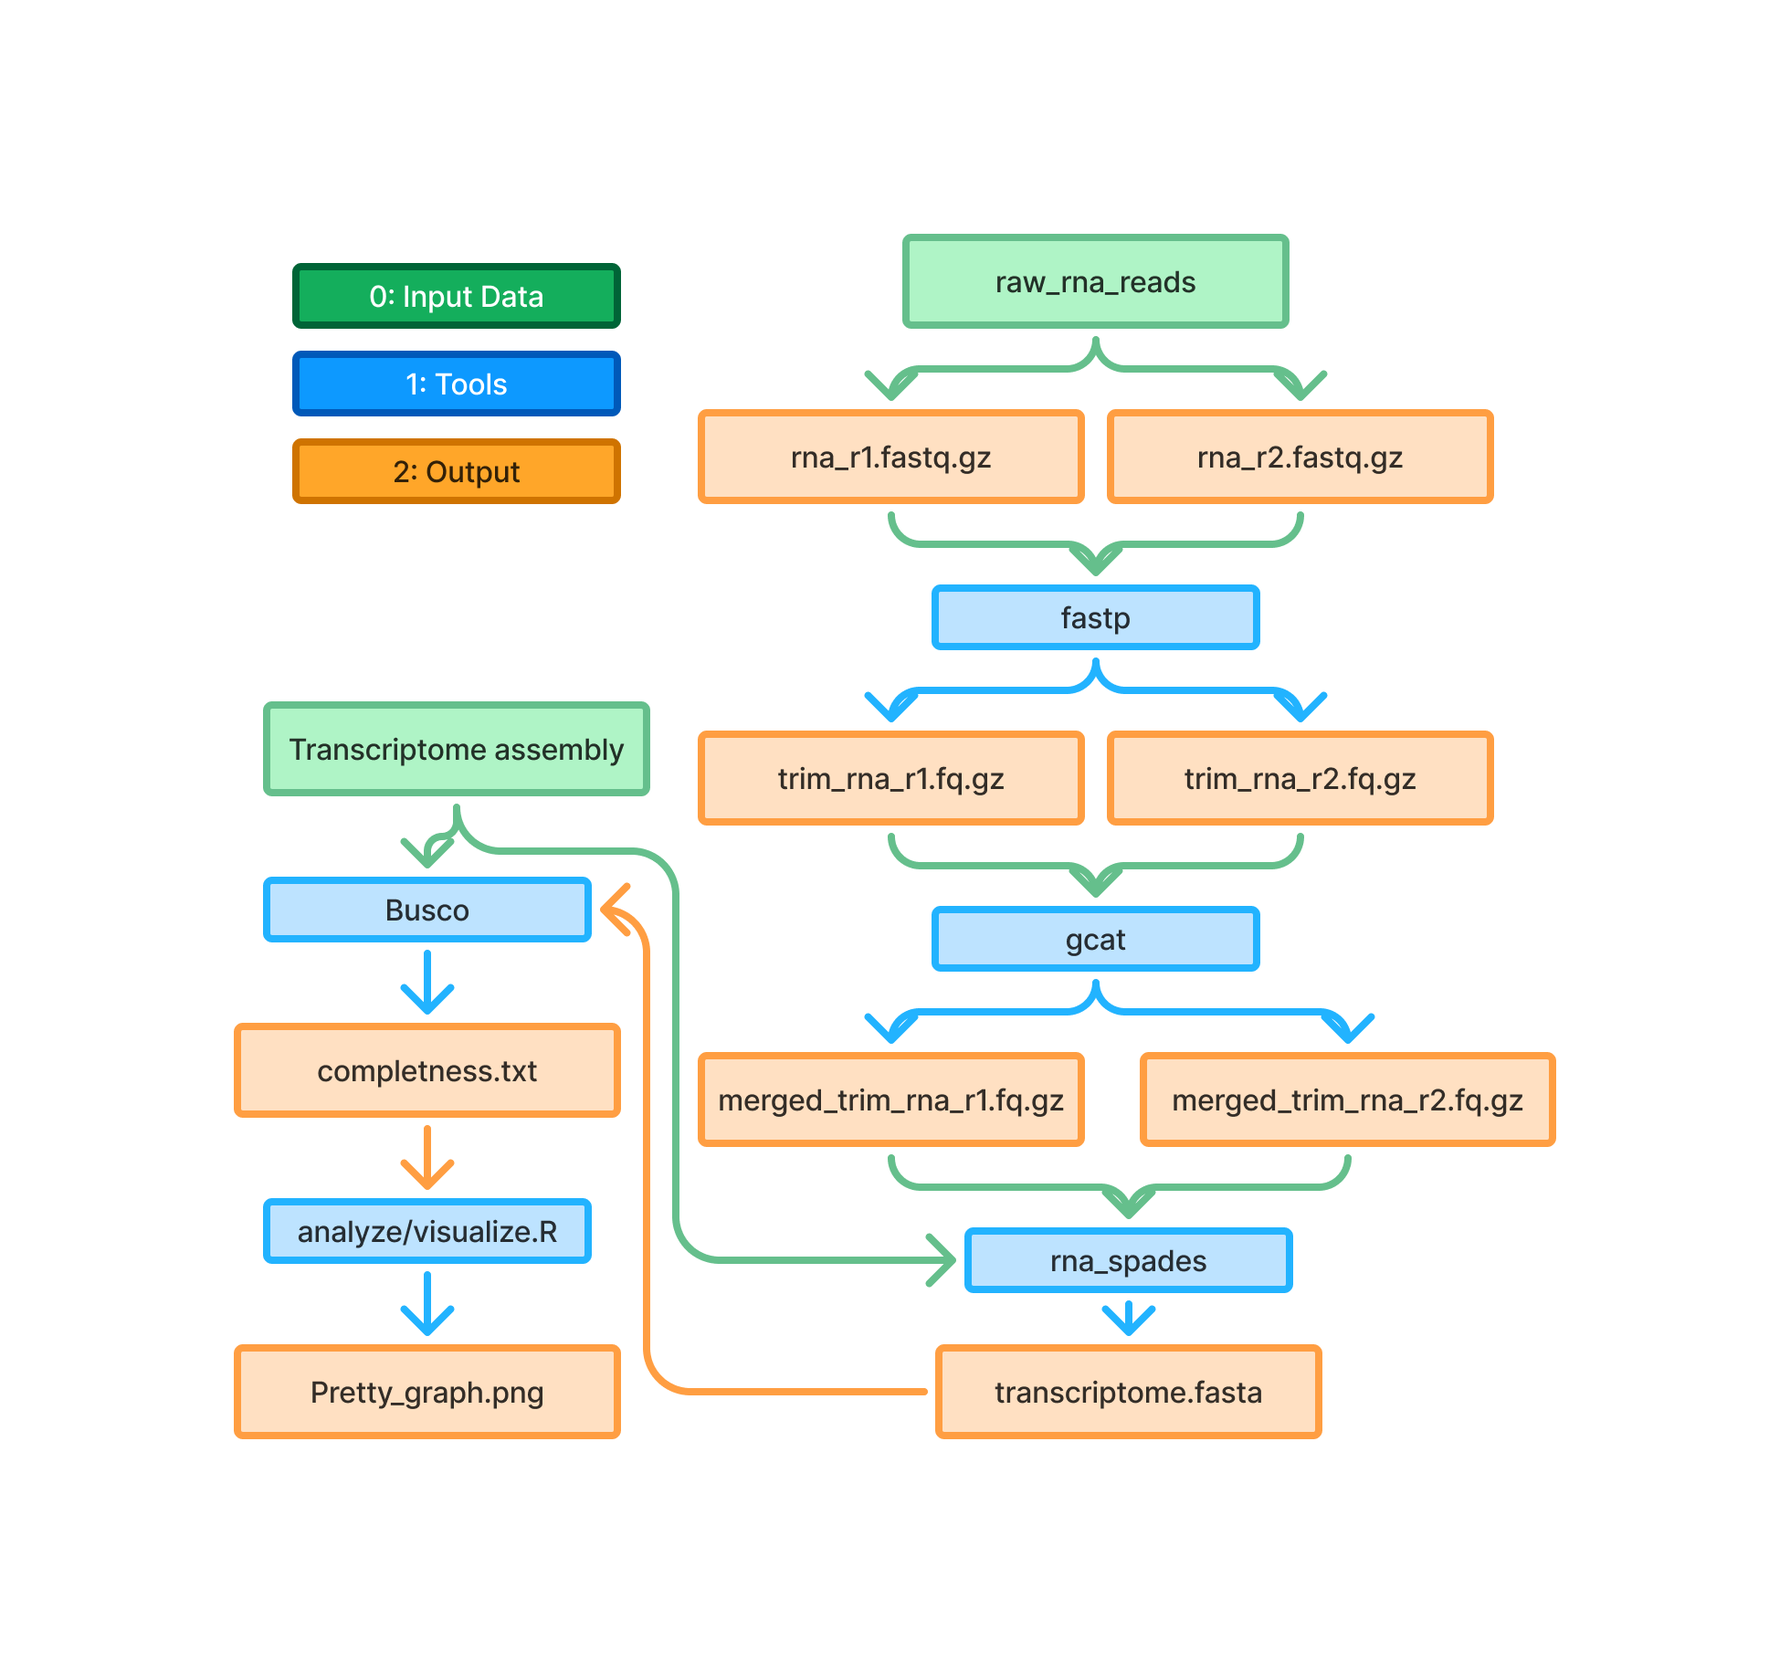
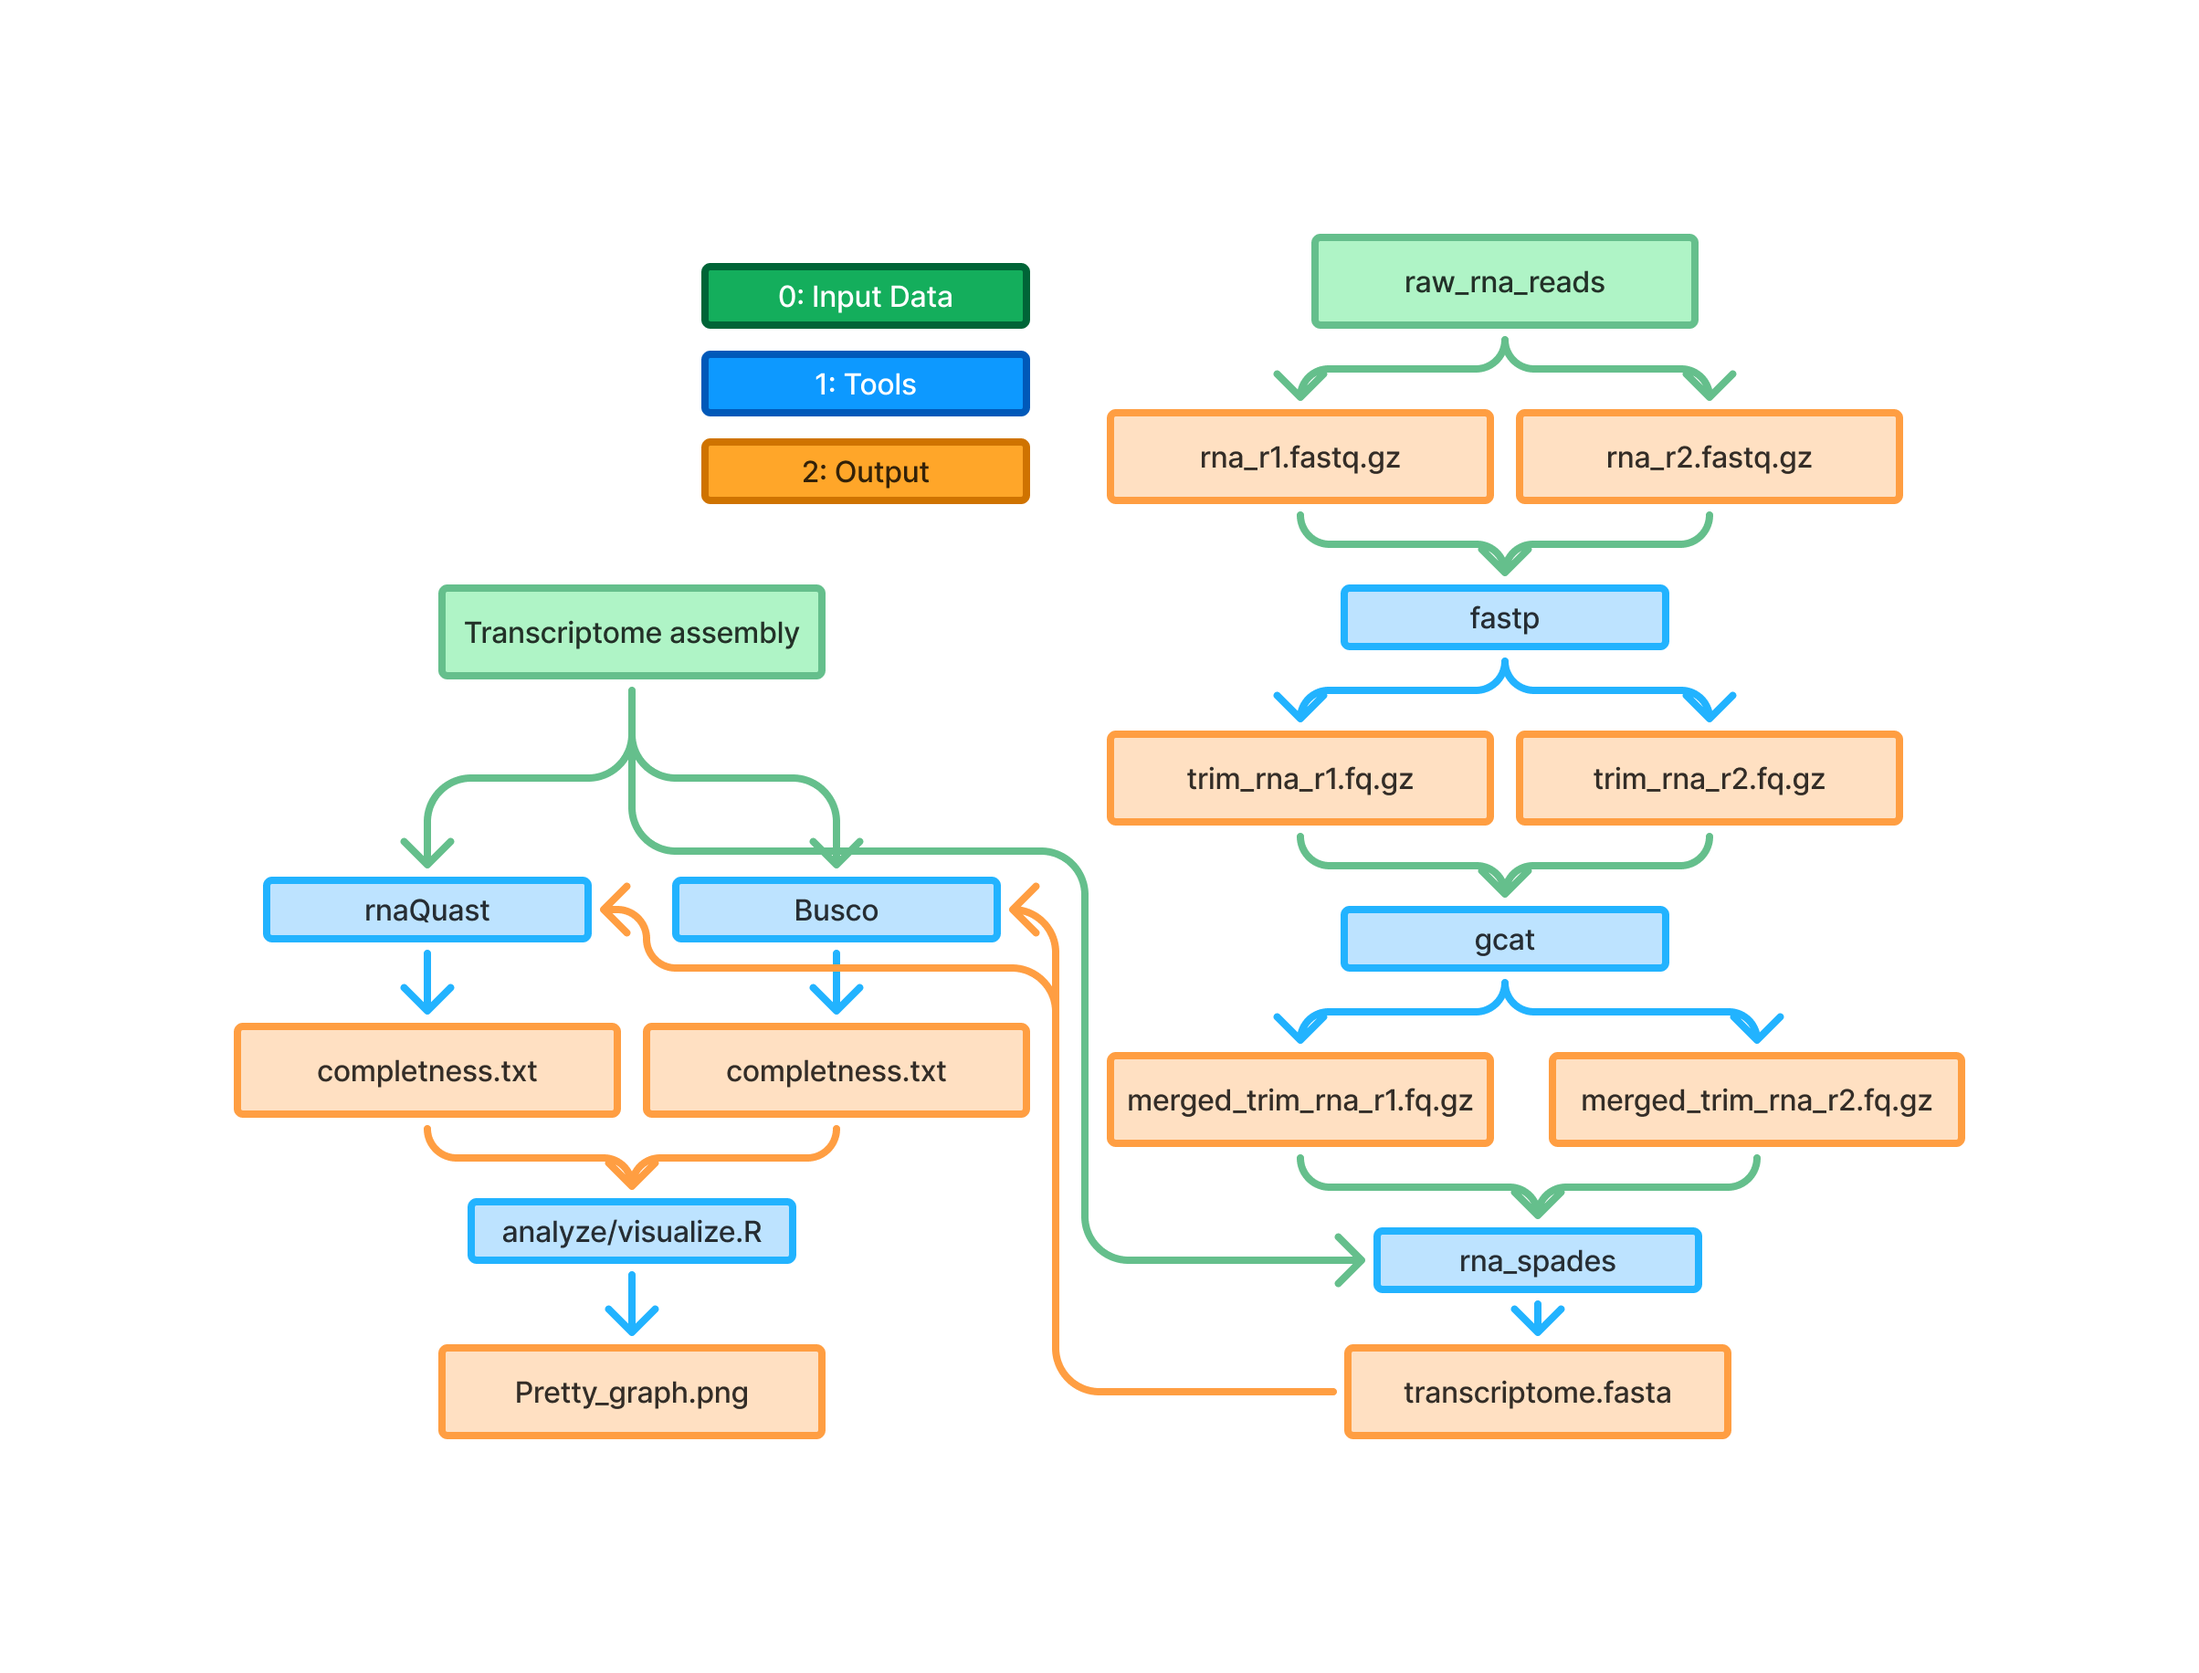
simplified figure

Changed region(s): [[0.0934, 0.1245, 0.9026, 0.8712], [0.7781, 0.4356, 0.8714, 0.4978]]

diff --git a/README.md b/README.md
@@ -4,7 +4,7 @@
 
 
 ### Pipeline Visualization
-   ![Pipeline visualization](mosquito_denovo_pipeline.png)
+   ![Pipeline visualization](simple_mosquito_denovo_pipeline.png)
 
 
 ### Project Structure:
@@ -17,14 +17,14 @@ mosquito_denovo/
 ├── results/                         # Output files from each step of the pipeline
 │   ├── 01_merge_trim/               # Results from merging and trimming steps
 │   ├── 02_assembly/                 # De novo assembly results
-│   ├── 03_busco/                    # BUSCO analysis outputs
+│   ├── 03_busco_rnaQuast/           # Completness analysis outputs
 │   └── 04_visualize/                # Visualization outputs and comparison graphs
 │
 ├── scripts/
 │   ├── mosquito_denovo.sh           # Main script that handles job submissions
 │   ├── 01_merge_trim.sh             # Trim each read file and merge outputs
 │   ├── 02_assembly.sh               # Assemble merged and trimmed RNA reads with draft transcriptome
-│   ├── 03_busco.sh                  # Perform BUSCO analysis on original & new transcriptome
+│   ├── 03_busco_rnaQuast.sh         # Perform BUSCO & rnaQuast analysis on original & new transcriptome
 │   └── 04_visualize.sh              # Visualize BUSCO outputs and comparisons
 │
 ├── logs/                            # Directory to store .out & .err logs
